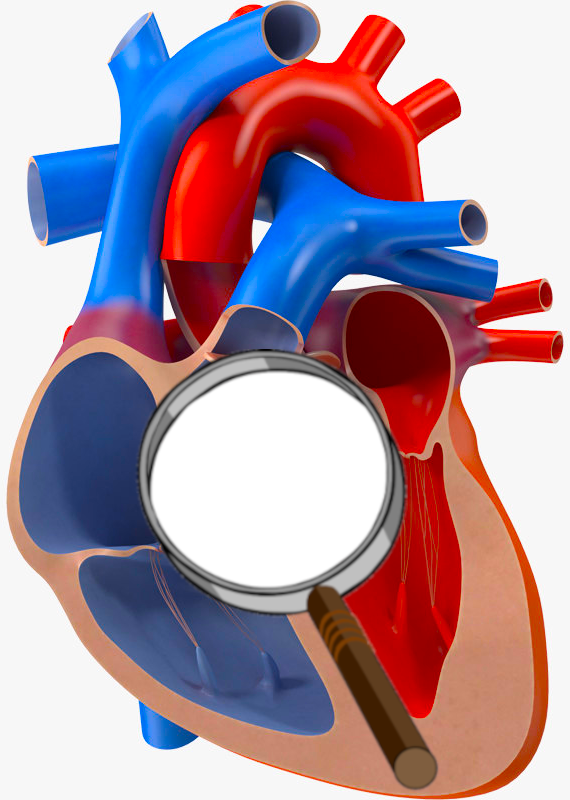
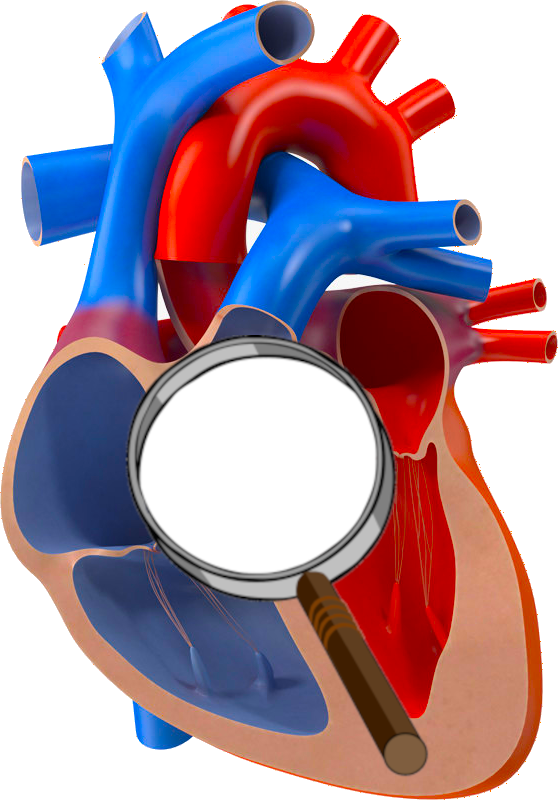
remove shading of hero image

diff --git a/docs/stylesheets/hero-image.css b/docs/stylesheets/hero-image.css
@@ -20,11 +20,11 @@
 
 .hero-block svg {
     padding: 0;
-    max-height: 90px; /* to fill magnifying glass as much as possible */
+    max-height: 105px; /* to fill magnifying glass as much as possible */
     margin: 0;
     position: relative;
-    top: -220px;
-    left: -10px;
+    top: -235px;
+    left: -13px;
     transition: all 0.5s ease-in-out;
     z-index: 100;
 }
